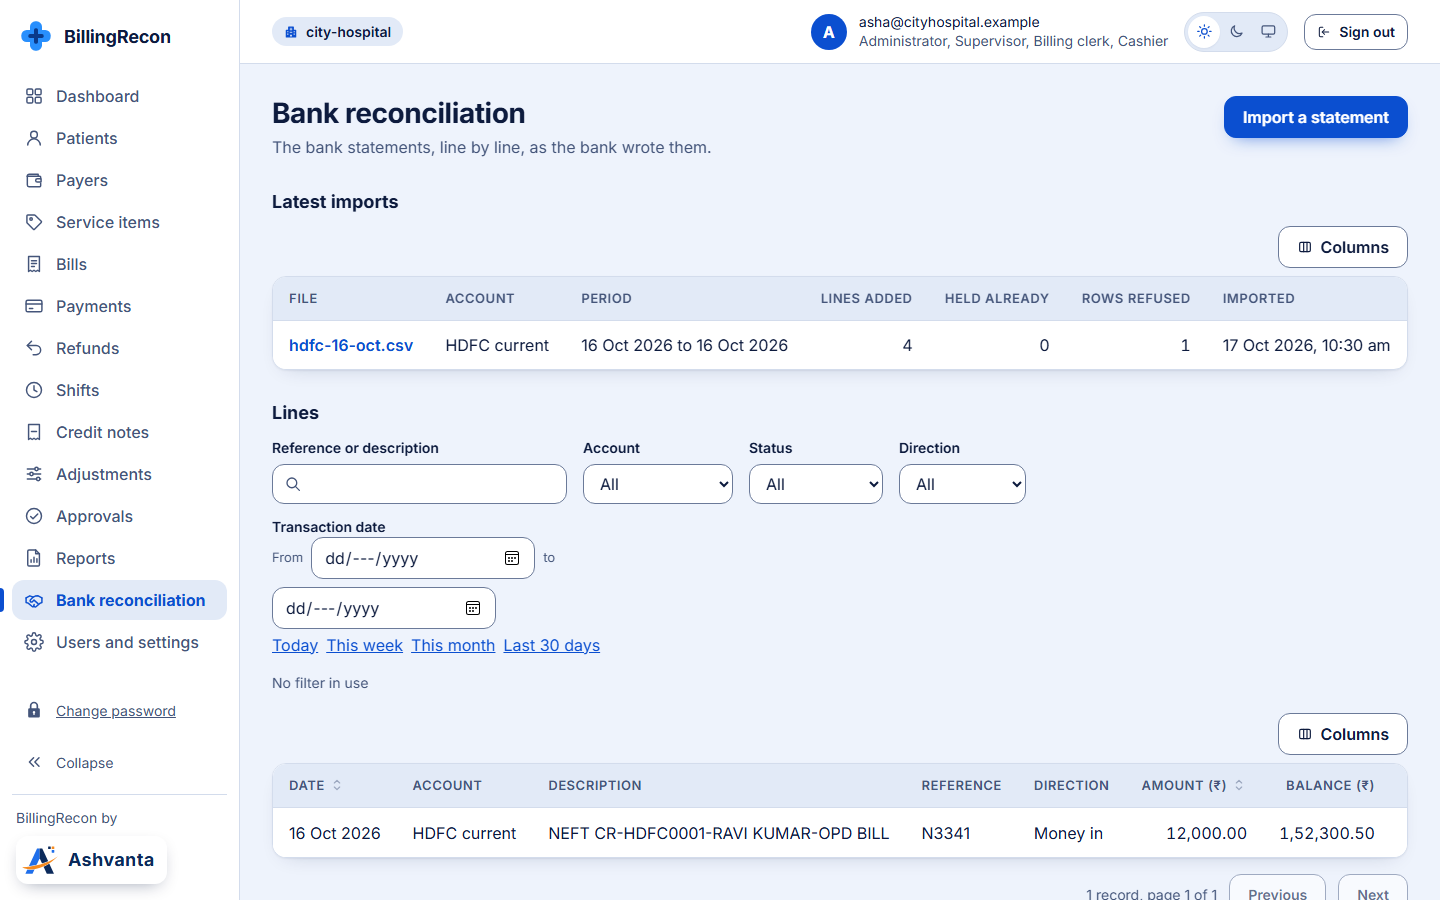
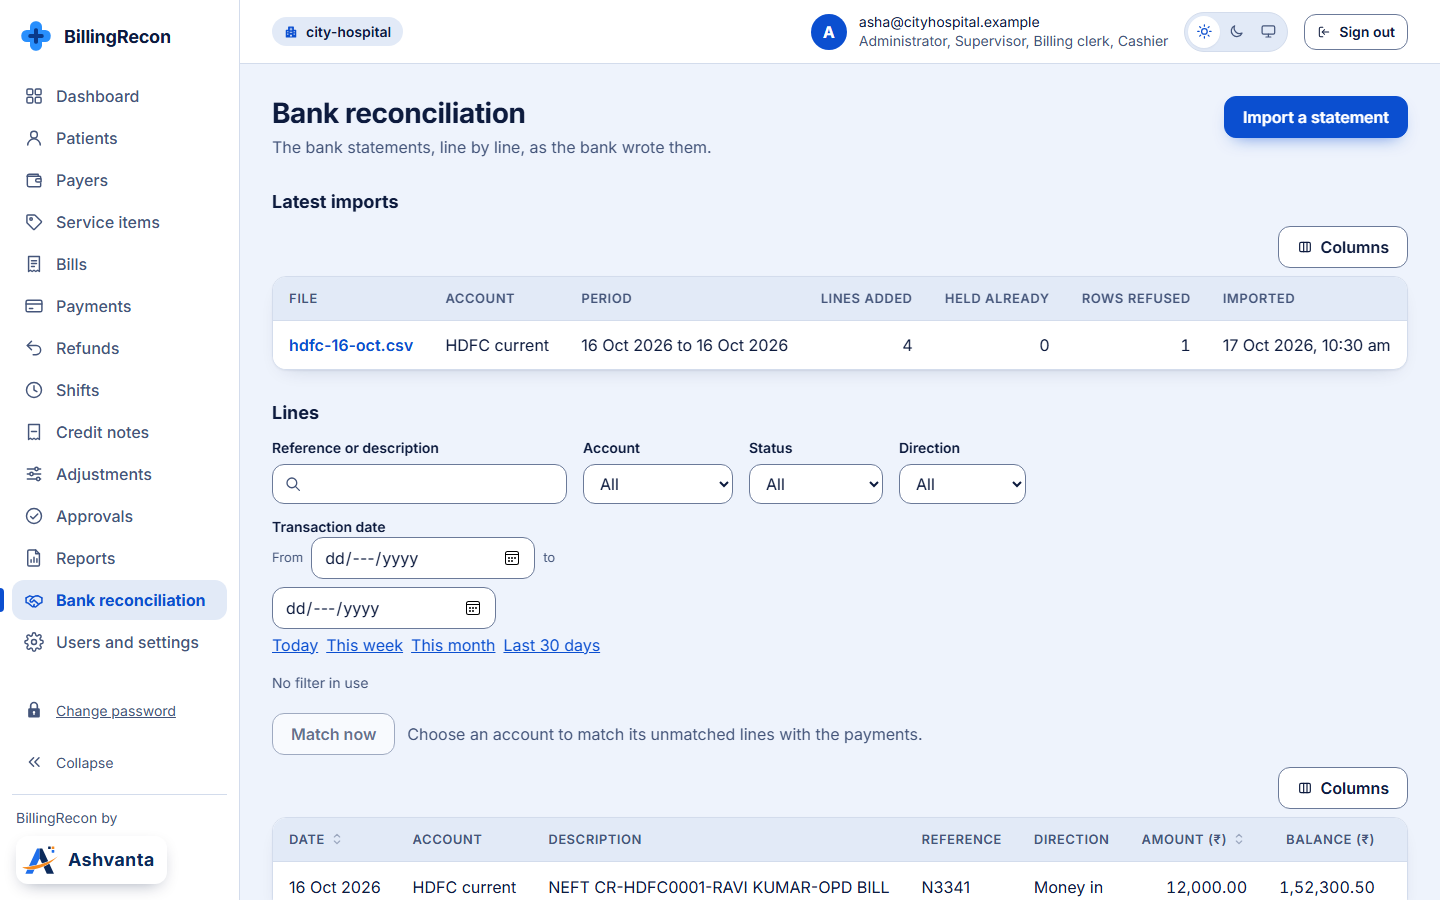
Prompt 13.2b: the screens of matching: the wizard runs it, the lines show it, Match now

Changed region(s): [[0.1875, 0.8089, 1.0, 1.0]]

diff --git a/frontend/src/reconciliation/StatementsPage.tsx b/frontend/src/reconciliation/StatementsPage.tsx
@@ -1,4 +1,7 @@
+import { useMutation, useQueryClient } from '@tanstack/react-query';
 import { Link } from 'react-router';
+import { problemOf } from '../api/call';
+import { useApiClient } from '../api/ApiClientContext';
 import { useCan } from '../auth/permissions';
 import { Badge } from '../components/Badge';
 import buttons from '../components/buttons.module.css';
@@ -6,6 +9,7 @@ import { EmptyState } from '../components/EmptyState';
 import { Pagination } from '../components/ListControls';
 import { LoadState } from '../components/Loading';
 import { PageHeader } from '../components/PageHeader';
+import { ProblemAlert } from '../components/ProblemAlert';
 import { DataTable, type TableColumn } from '../components/table/DataTable';
 import { FilterBar, type FilterSpec } from '../components/table/FilterBar';
 import { known, useListState } from '../components/table/listState';
@@ -15,6 +19,9 @@ import {
   directions,
   lineStatuses,
   lineStatusLabels,
+  runMatching,
+  runSummary,
+  statementsChanged,
   useChannels,
   useImports,
   useLines,
@@ -86,7 +93,27 @@ const lineColumns = (nameOf: (id: string) => string): readonly TableColumn<State
     fixed: true,
     cell: (line) => <Badge tone={lineStatusLabels[line.status].tone}>{lineStatusLabels[line.status].label}</Badge>,
   },
+  // Since 13.2 (ADR 0066): why the line is matched, or the likeliest proposal and how many there are.
+  {
+    id: 'match',
+    header: 'Match',
+    cell: (line) => <span className={styles.wrapCell}>{matchText(line)}</span>,
+  },
 ];
+
+/** What a line's Match column says: the reason of its match, or its best proposal with its score. */
+function matchText(line: StatementLine): string {
+  if (line.matchReason !== null && line.matchReason !== undefined) {
+    return line.matchReason;
+  }
+
+  if (line.proposalReason !== null && line.proposalReason !== undefined) {
+    const more = Number(line.proposalCount) > 1 ? ` (and ${String(Number(line.proposalCount) - 1)} more)` : '';
+    return `Proposed, ${String(line.proposalScore)} of 100: ${line.proposalReason}${more}`;
+  }
+
+  return '—';
+}
 
 const importColumns = (nameOf: (id: string) => string): readonly TableColumn<StatementImport>[] => [
   {
@@ -113,7 +140,8 @@ const importColumns = (nameOf: (id: string) => string): readonly TableColumn<Sta
 /**
  * The hospital's bank statements (Prompt 13.1c, US-61; BR-1004, BR-1005; ADR 0065): the latest imports, and the lines
  * as they were read, filtered by account, status, direction, a period and a search of a reference or a description.
- * Matching them to the payments comes with Prompts 13.2 and 13.3; until then every line is Unmatched.
+ * Since 13.2, a line says what it is matched to or what is proposed for it, and Match now runs matching over the account
+ * chosen; matching by hand comes with 13.3.
  */
 export function StatementsPage() {
   const canImport = useCan('ImportStatements');
@@ -135,6 +163,13 @@ export function StatementsPage() {
   const imports = useImports(values.channel, 1);
   const all = channels.data ?? [];
   const nameOf = (id: string) => all.find((channel) => channel.id === id)?.name ?? '—';
+  const client = useApiClient();
+  const queryClient = useQueryClient();
+  // Since 13.2 (ADR 0066): a matching run over the account chosen in the filters.
+  const matching = useMutation({
+    mutationFn: (channelId: string) => runMatching(client, channelId),
+    onSettled: () => statementsChanged(queryClient),
+  });
 
   return (
     <section aria-labelledby="page-title">
@@ -179,6 +214,27 @@ export function StatementsPage() {
           </p>
         )}
         <FilterBar state={state} filters={filtersOf(all)} busy={lines.isFetching} />
+        {canImport && (
+          <div className={styles.matchBar}>
+            <button
+              type="button"
+              className={buttons.secondary}
+              disabled={values.channel === '' || matching.isPending}
+              aria-describedby="match-note"
+              onClick={() => matching.mutate(values.channel)}
+            >
+              {matching.isPending ? 'Matching…' : 'Match now'}
+            </button>
+            <p id="match-note" className={styles.note} aria-live="polite">
+              {matching.data !== undefined
+                ? `Matched the unmatched lines of ${nameOf(values.channel)}: ${runSummary(matching.data)}`
+                : values.channel === ''
+                  ? 'Choose an account to match its unmatched lines with the payments.'
+                  : 'Matches what is certain and proposes the rest. Nothing is posted.'}
+            </p>
+          </div>
+        )}
+        {matching.error !== null && <ProblemAlert problem={problemOf(matching.error)} />}
         {lines.data === undefined ? (
           <LoadState error={lines.error} what="lines" />
         ) : lines.data.items.length === 0 ? (

diff --git a/frontend/src/reconciliation/Reconciliation.test.tsx b/frontend/src/reconciliation/Reconciliation.test.tsx
@@ -99,6 +99,10 @@ const line: StatementLine = {
   rawText: '16/10/2026,NEFT CR RAVI KUMAR,N3341,,"12,000.00","1,52,300.50"',
   status: 'Unmatched',
   version: 'AAAAAAAAB9F=',
+  matchReason: null,
+  proposalReason: 'The amount ₹12,000.00 agrees with PAY/26-27/000233 of 16 Oct 2026, the same day.',
+  proposalScore: 70,
+  proposalCount: 2,
 };
 
 async function bodyOf(request: Request | undefined): Promise<Record<string, unknown>> {
@@ -184,6 +188,8 @@ describe('importing a bank statement, for the accountant', () => {
       [`GET ${channels}`]: () => json(200, page([bank])),
       [`POST ${dryRun}`]: () => json(200, checked),
       [`POST ${imports}`]: () => json(201, imported),
+      [`POST ${channels}/${bank.id}/matching-runs`]: () =>
+        json(200, { linesRead: 4, matched: 3, proposed: 1, left: 0, skipped: 0 }),
     });
     const { user } = renderApp('/reconciliation/import', { session: accountant, fetch: api.fetch });
 
@@ -209,6 +215,9 @@ describe('importing a bank statement, for the accountant', () => {
 
     await user.click(importIt);
     expect(await screen.findByText('Imported')).toBeInTheDocument();
+    // Since 13.2: the import is followed by a matching run over the account, and its result is said.
+    expect(await screen.findByText(/Matching: 3 matched, 1 proposed, 0 left for you\./)).toBeInTheDocument();
+    expect(api.sent('POST', `${channels}/${bank.id}/matching-runs`)).toHaveLength(1);
     const sent = api.sent('POST', imports)[0];
     expect(sent?.headers.get('Idempotency-Key')).toMatch(/^[0-9a-f-]{36}$/);
     expect((await bodyOf(sent)).fileHash).toBe(checked.fileHash);
@@ -251,8 +260,49 @@ describe('the statements, for whoever reads the reconciliation', () => {
     expect(lineRows[1]).toHaveTextContent('NEFT CR RAVI KUMAR');
     expect(lineRows[1]).toHaveTextContent('12,000.00');
     expect(lineRows[1]).toHaveTextContent('Unmatched');
+    expect(lineRows[1]).toHaveTextContent(
+      'Proposed, 70 of 100: The amount ₹12,000.00 agrees with PAY/26-27/000233 of 16 Oct 2026, the same day. (and 1 more)',
+    );
+    expect(screen.queryByRole('button', { name: 'Match now' })).not.toBeInTheDocument();
     expect(screen.getByText(/The lines of one import/)).toBeInTheDocument();
     expect(new URL(api.sent('GET', lines)[0]!.url).searchParams.get('ImportId')).toBe(imported.id);
     expect(screen.queryByRole('link', { name: 'Import a statement' })).not.toBeInTheDocument();
+  });
+});
+
+describe('matching from the lines, for the accountant', () => {
+  it('runs matching over the account chosen and says what it did', async () => {
+    const api = routedApi({
+      [`GET ${channels}`]: () => json(200, page([bank])),
+      [`GET ${imports}`]: () => json(200, page([imported])),
+      [`GET ${lines}`]: () =>
+        json(200, page([{ ...line, status: 'Matched', matchReason: 'The reference N3341 agrees.' }])),
+      [`POST ${channels}/${bank.id}/matching-runs`]: () =>
+        json(200, { linesRead: 9, matched: 2, proposed: 3, left: 3, skipped: 1 }),
+    });
+    const { user } = renderApp(`/reconciliation?channel=${bank.id}`, { session: accountant, fetch: api.fetch });
+
+    const lineRows = within(await screen.findByRole('table', { name: 'Statement lines' })).getAllByRole('row');
+    expect(lineRows[1]).toHaveTextContent('The reference N3341 agrees.');
+    await user.click(screen.getByRole('button', { name: 'Match now' }));
+
+    expect(
+      await screen.findByText(
+        'Matched the unmatched lines of HDFC current: 2 matched, 3 proposed, 3 left for you, 1 skipped, changed meanwhile.',
+      ),
+    ).toBeInTheDocument();
+    expect(api.sent('POST', `${channels}/${bank.id}/matching-runs`)).toHaveLength(1);
+  });
+
+  it('keeps Match now closed until an account is chosen', async () => {
+    const api = routedApi({
+      [`GET ${channels}`]: () => json(200, page([bank])),
+      [`GET ${imports}`]: () => json(200, page([])),
+      [`GET ${lines}`]: () => json(200, page([])),
+    });
+    renderApp('/reconciliation', { session: accountant, fetch: api.fetch });
+
+    expect(await screen.findByRole('button', { name: 'Match now' })).toBeDisabled();
+    expect(screen.getByText('Choose an account to match its unmatched lines with the payments.')).toBeInTheDocument();
   });
 });

diff --git a/frontend/src/reconciliation/StatementImportPage.tsx b/frontend/src/reconciliation/StatementImportPage.tsx
@@ -20,6 +20,8 @@ import {
   dryRunStatement,
   importStatement,
   maxStatementLength,
+  runMatching,
+  runSummary,
   statementsChanged,
   useChannels,
   type StatementBody,
@@ -50,9 +52,17 @@ export function StatementImportPage() {
   const banks = (channels.data ?? []).filter((candidate) => candidate.kind === 'Bank' && candidate.status === 'Active');
 
   const check = useMutation({ mutationFn: (body: StatementBody) => dryRunStatement(client, body) });
+  // Since 13.2 (ADR 0066): straight after the import, a matching run over the account.
+  const matching = useMutation({
+    mutationFn: (channelId: string) => runMatching(client, channelId),
+    onSettled: () => statementsChanged(queryClient),
+  });
   const run = useMutation({
     mutationFn: (body: StatementBody) => sendOnce(JSON.stringify(body), (key) => importStatement(client, body, key)),
-    onSuccess: () => statementsChanged(queryClient),
+    onSuccess: (done) => {
+      statementsChanged(queryClient);
+      matching.mutate(done.channelId);
+    },
   });
   const checked: StatementDryRun | undefined = check.data;
   const imported: StatementImport | undefined = run.data;
@@ -61,6 +71,7 @@ export function StatementImportPage() {
     setRefusal(null);
     check.reset();
     run.reset();
+    matching.reset();
   };
 
   const body = (fileHash: string | null): StatementBody | null =>
@@ -181,7 +192,9 @@ export function StatementImportPage() {
       <div className={styles.result} aria-live="polite">
         {imported !== undefined && (
           <Banner tone="success" title="Imported" live>
-            {count(imported.linesAdded)} lines are in.{' '}
+            {count(imported.linesAdded)} lines are in. {matching.isPending && 'Matching them with the payments…'}
+            {matching.data !== undefined && `Matching: ${runSummary(matching.data)}`}
+            {matching.error !== null && 'Matching did not run now; choose Match now on the lines.'}{' '}
             <Link to={`/reconciliation?import=${imported.id}`}>See the lines of this import</Link>
           </Banner>
         )}

diff --git a/frontend/e2e/reconciliation.spec.ts b/frontend/e2e/reconciliation.spec.ts
@@ -56,6 +56,8 @@ const checked = {
     alreadyHeld: index < 2,
   })),
 };
+// Since 13.2: the matching run that follows an import.
+const matched = { linesRead: 38, matched: 30, proposed: 6, left: 2, skipped: 0 };
 const imported = {
   id: 'ed000000-0000-4000-8000-000000000001',
   channelId: bank.id,
@@ -90,6 +92,7 @@ for (const theme of ['light', 'dark'] as const) {
         imports.push('import');
         return imported;
       },
+      [`POST /api/v1/settlement-channels/${bank.id}/matching-runs`]: () => matched,
     };
     const view = await open(page, '/reconciliation/import', theme, desktop, answers, accountant);
     await expect(page.getByRole('heading', { level: 1, name: 'Import a bank statement' })).toBeVisible();
@@ -117,6 +120,7 @@ for (const theme of ['light', 'dark'] as const) {
     await page.getByRole('button', { name: 'Import', exact: true }).click();
     await expect(page.getByText('Imported', { exact: true })).toBeVisible();
     await expect(page.getByRole('link', { name: 'See the lines of this import' })).toBeVisible();
+    await expect(page.getByText(/Matching: 30 matched, 6 proposed, 2 left for you\./)).toBeVisible();
     expect(imports).toHaveLength(1);
     await expect(page.getByRole('button', { name: 'Import', exact: true })).toBeDisabled();
 
@@ -130,6 +134,7 @@ test('the import is done with the keyboard alone, and the result fits a phone', 
     'GET /api/v1/settlement-channels': () => pageOf([bank]),
     'POST /api/v1/statement-imports/dry-run': () => checked,
     'POST /api/v1/statement-imports': () => imported,
+    [`POST /api/v1/settlement-channels/${bank.id}/matching-runs`]: () => matched,
   };
   const view = await open(page, '/reconciliation/import', 'light', phone, answers, accountant);
   await expect(page.getByRole('heading', { level: 1, name: 'Import a bank statement' })).toBeVisible();

diff --git a/frontend/src/reconciliation/api.ts b/frontend/src/reconciliation/api.ts
@@ -241,3 +241,24 @@ export function headersOf(text: string, headerRow: number): string[] {
   names.push(field.trim());
   return names.filter((name) => name !== '');
 }
+
+export type MatchingRun = components['schemas']['MatchingRunDto'];
+
+/**
+ * A matching run over a bank channel (Prompt 13.2, ADR 0066): it confirms the certain lines and proposes the rest. It
+ * posts nothing, so it takes no Idempotency-Key; a run already under way answers 409 `matching_run_in_progress`.
+ */
+export function runMatching(client: ApiClient, channelId: string): Promise<MatchingRun> {
+  return answer(client.POST('/api/v1/settlement-channels/{id}/matching-runs', { params: { path: { id: channelId } } }));
+}
+
+/** What a run did, in words. */
+export function runSummary(run: MatchingRun): string {
+  const count = (value: number | string) => Number(value).toLocaleString('en-IN');
+  const parts = [`${count(run.matched)} matched`, `${count(run.proposed)} proposed`, `${count(run.left)} left for you`];
+  if (Number(run.skipped) > 0) {
+    parts.push(`${count(run.skipped)} skipped, changed meanwhile`);
+  }
+
+  return `${parts.join(', ')}.`;
+}

diff --git a/frontend/e2e/routes.spec.ts b/frontend/e2e/routes.spec.ts
@@ -94,8 +94,12 @@ const statementLine = {
   description: 'NEFT CR-HDFC0001-RAVI KUMAR-OPD BILL',
   balance: 152300.5,
   rawText: '16/10/2026,NEFT CR-HDFC0001-RAVI KUMAR-OPD BILL,N3341,,"12,000.00","1,52,300.50"',
-  status: 'Unmatched',
+  status: 'Matched',
   version: 'AAAAAAAAB9F=',
+  matchReason: 'The reference N3341 and the amount ₹12,000.00 agree with PAY/26-27/000233 of 16 Oct 2026.',
+  proposalReason: null,
+  proposalScore: null,
+  proposalCount: 0,
 };
 const everyRole = sessionOf(['TenantAdmin', 'Supervisor', 'BillingClerk', 'Cashier']);
 

diff --git a/frontend/src/reconciliation/Reconciliation.module.css b/frontend/src/reconciliation/Reconciliation.module.css
@@ -71,3 +71,16 @@
 .wrapCell {
   overflow-wrap: anywhere;
 }
+
+/* Match now, under the filters, with what the last run did beside it (Prompt 13.2). */
+.matchBar {
+  display: flex;
+  flex-wrap: wrap;
+  gap: var(--space-3);
+  align-items: center;
+  margin: var(--space-3) 0;
+}
+
+.matchBar .note {
+  margin: 0;
+}

diff --git a/docs/go-live.md b/docs/go-live.md
@@ -335,10 +335,14 @@ Accountant approves nothing and changes no bill, payment or setting.
    ![Importing a statement](ui/statement-import.png)
 
 2. **Import** stores the new lines, each once. The same file twice adds nothing, and a file that overlaps the last one
-   adds only what is new, so the daily statement can be imported every morning without counting what was done.
+   adds only what is new, so the daily statement can be imported every morning without counting what was done. Right
+   after it, the lines are **matched** with the payments: a line whose reference (the UTR, the UPI or cheque number)
+   and amount agree with exactly one payment of the last few days is matched by itself; for the rest the page proposes
+   what they may be, with a score out of 100 and the reason in words. A match posts nothing and moves no money.
 3. **Bank reconciliation** lists the latest imports and every line as the bank wrote it, by account, status, direction,
-   date and a search of the reference or the description. Every line is Unmatched until matching arrives (R2, Prompts
-   13.2 and 13.3).
+   date and a search of the reference or the description. The Match column says what a line is matched to, or what is
+   proposed for it. **Match now**, with an account chosen, matches again, for instance after the counter recorded a
+   payment it had forgotten. Accepting a proposal and matching by hand come with the next prompt (13.3).
 
    ![The bank statements](ui/reconciliation.png)
 
